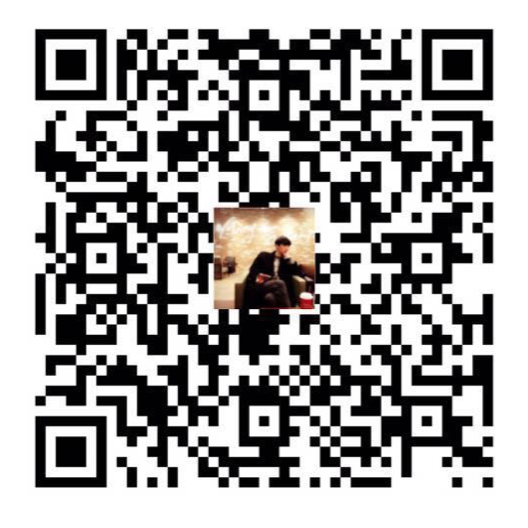
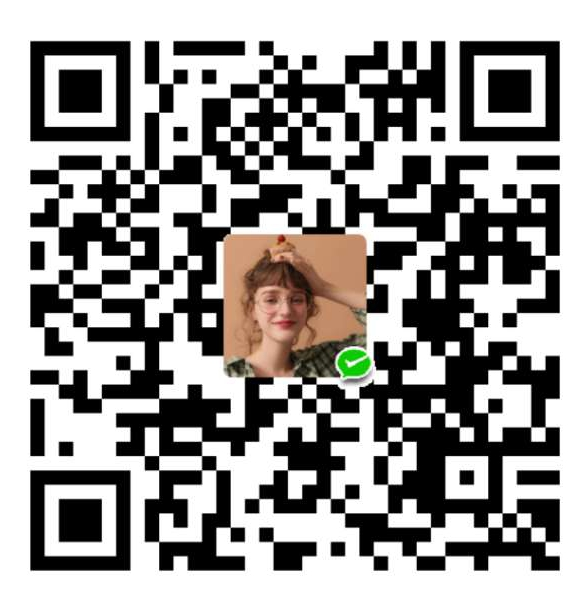
1.增加目录支持 2.修改支付图片

diff --git a/_includes/new-old.html b/_includes/new-old.html
@@ -23,9 +23,9 @@
                     <span class="pay_logo"><img src="/images/payimg/wechat.jpg" alt="微信" /></span>
                   </div>
                 </div>
-                <div class="shang_info-play">
+              <!--   <div class="shang_info-play">
                   <p>打开<span id="shang_pay_txt">支付宝</span>扫一扫，即可进行扫码打赏哦</p>
-                </div>
+                </div> -->
               </div>
             </div>
             <script type="text/javascript">

diff --git a/_includes/external.html b/_includes/external.html
@@ -3,5 +3,3 @@
 
 <script type="text/javascript" src="/js/highlight.pack.js"></script>
 <script>hljs.initHighlightingOnLoad();</script>
-
-

diff --git a/_posts/2019-02-14-HEXO搭建个人博客.md b/_posts/2019-02-14-HEXO搭建个人博客.md
@@ -6,8 +6,9 @@ description: "HEXO配置，HEXO+Github，搭建自己的博客"
 tag: setup 教程
 
 ---
-
-	一直想搭建自己的博客。以前也搭建过，不过模板一直找不到合适的，不会修改人家的模板，一直搁置着。最近无事就又研究了一番，踩踩坑，算是搭建完成了吧。这篇是hexo + github 的方式，还有一种 jekyll + github 的方式，将在另一篇中讲述。本文讲述的是 windows 系统上搭建博客，如若是mac，linux，请另寻他法。
+* 目录
+{:toc}
+	一直想搭建自己的博客。以前也搭建过，不过模板一直找不到合适的，不会修改人家的模板，一直搁置着。最近无事就又研究了一番，踩踩坑，算是搭建完成了吧。这篇是hexo + github 的方式，还有一种 jekyll + github 的方式，将在另一篇中讲述。本文讲述的是 windows 系统上搭建博客，如若是mac，linux，请另寻他法。。。
 
 
 
